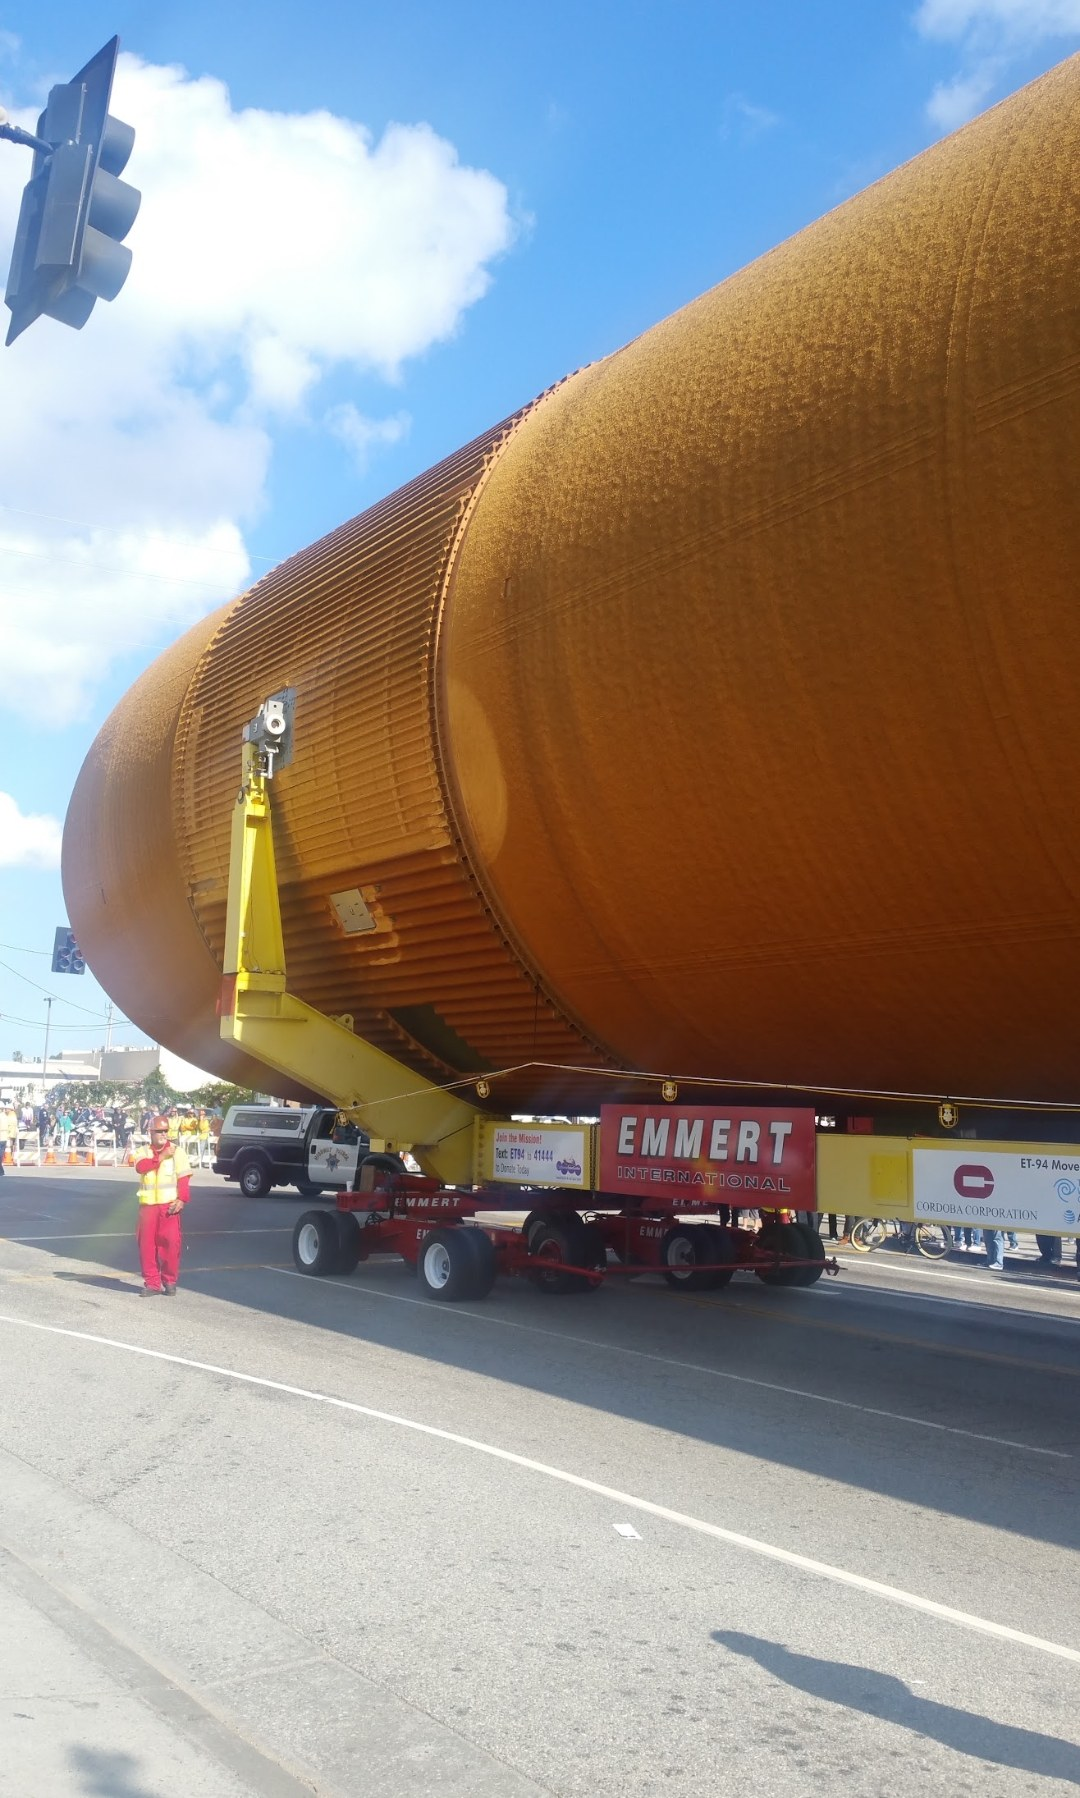
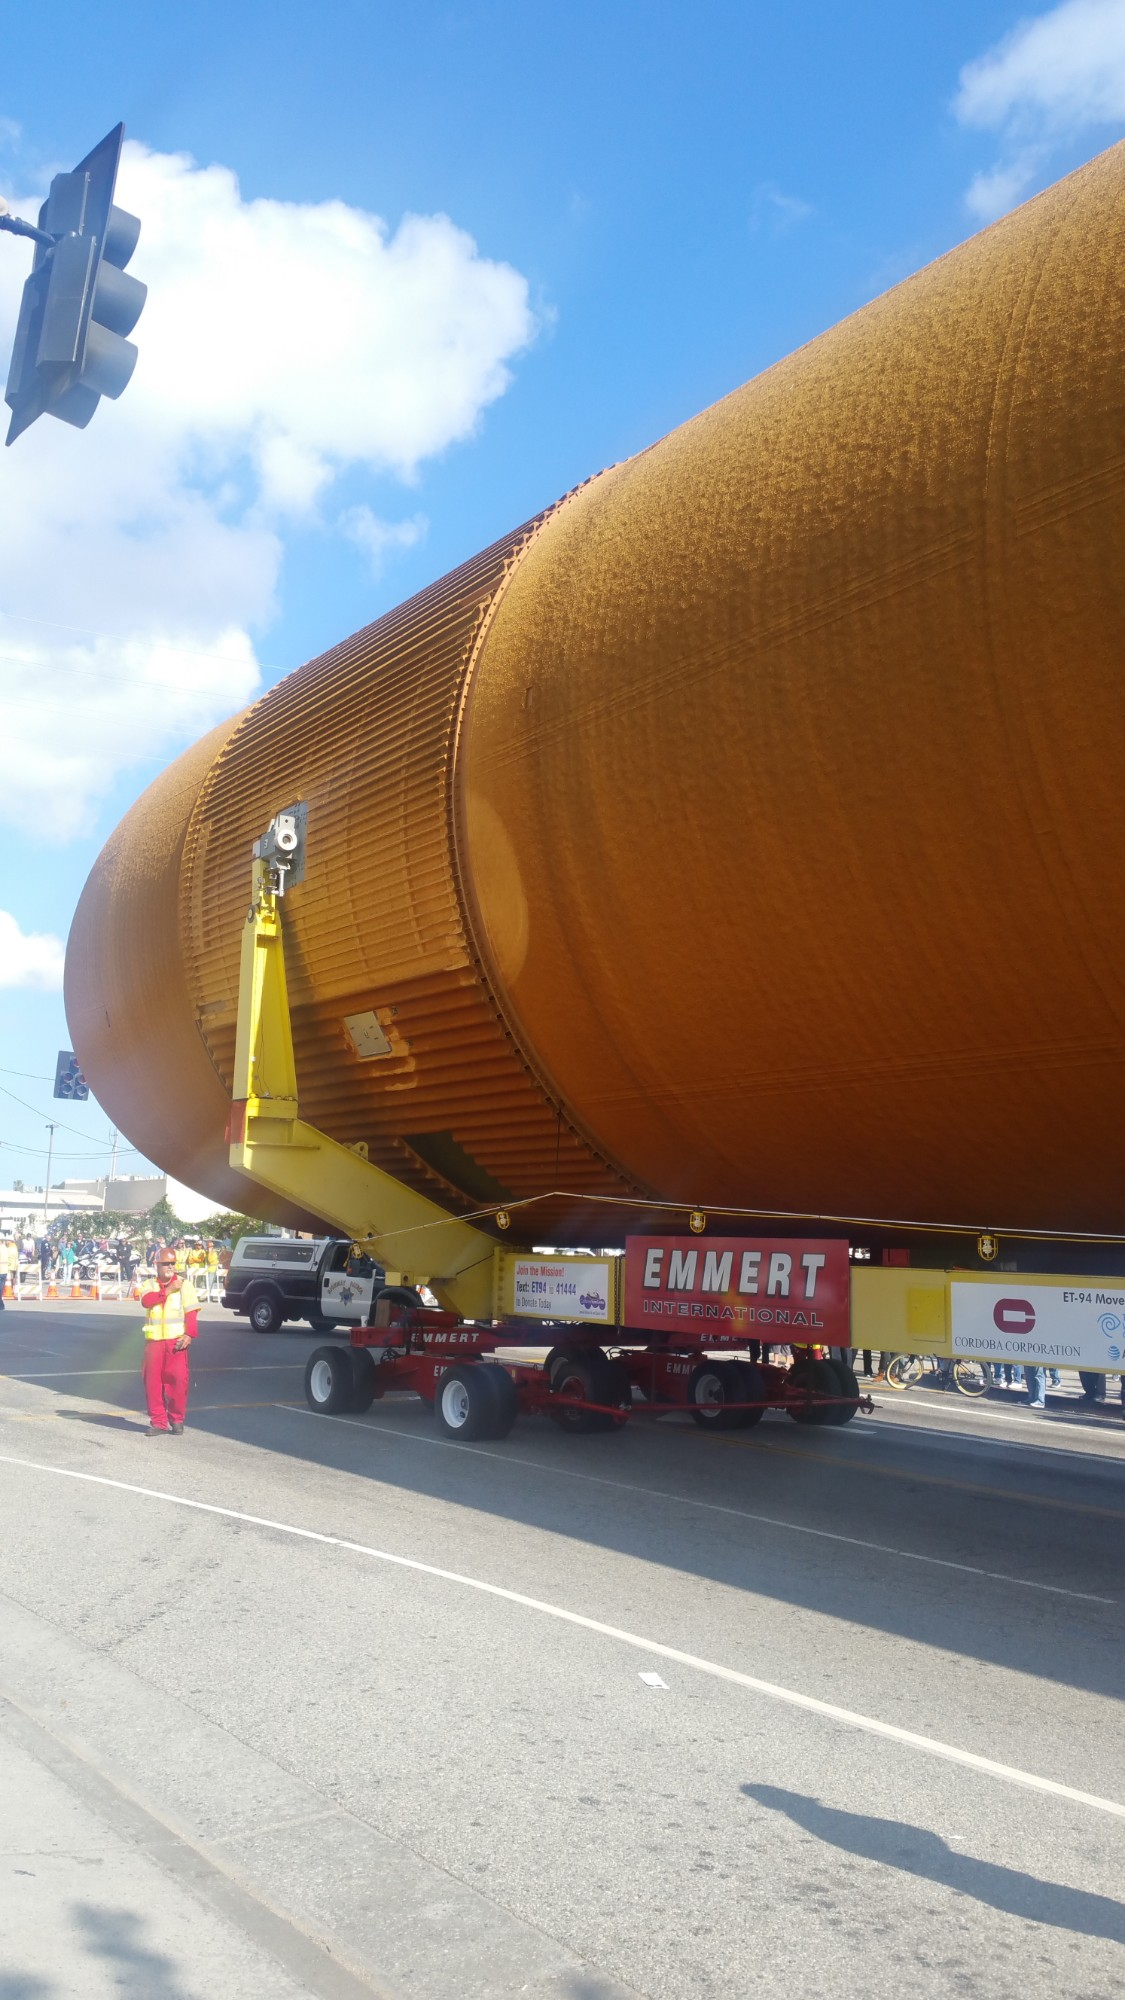
Use original photos in the ET-94 post and place the 2012 flyover
Replaces two stand-in screenshots with the originals, adds the wide
crowd shot on Arbor Vitae, and says the flyover was watched from in
front of Splunk's Embarcadero office.

Claude-Session: https://claude.ai/code/session_013bVqEFcB8vhbBxohmkv3Jr

diff --git a/content/posts/last-space-shuttle-tank-drove-across-los-angeles/index.md b/content/posts/last-space-shuttle-tank-drove-across-los-angeles/index.md
@@ -14,8 +14,10 @@ tags = [
 ]
 hideAsideBar = true
 homeFeatureIcon = "fa-solid fa-camera"
-# PREVIEW: the JPGs here are cropped phone screenshots standing in for the
-# originals. Replace them (same names) before merging, then rerun
+# PREVIEW: four tank photos are still cropped phone screenshots standing in
+# for originals: et94-signal-arm-crane, et94-nose-on-aviation,
+# et94-foam-close-up and et94-down-arbor-vitae. Replace them (same names)
+# before merging, then rerun
 #   npm run og:generate -- --only /posts/last-space-shuttle-tank-drove-across-los-angeles/
 og_image = "et94-signal-arm-crane.jpg"
 cardType = "-image"
@@ -30,8 +32,7 @@ cardImageAlt = "A crane truck lifts a traffic signal arm off its pole so the spa
 <!--
 DRAFT NOTES — delete this block before publishing.
 - Every [BEN: …] marker needs your memory or a fact only you have.
-- Photos: the six image lines below are named and have alt text. Drop the
-  ORIGINAL JPGs (not phone screenshots) into this folder under those names.
+- Photos: four tank photos are still screenshots (see the front matter).
 - Facts marked "verify" came from 2016 news coverage; numbers vary a little
   between sources (16 vs 16.5 miles, 65,000–69,000 lb, 18 vs 19 hours).
 -->
@@ -48,7 +49,7 @@ It wasn't the first piece of it I'd seen.
 
 On Friday, September 21, 2012, Endeavour made its last flight, riding on the back of NASA's 747 from Edwards Air Force Base on a farewell loop of California: over Sacramento, over San Francisco and the Golden Gate Bridge, down the Peninsula, and on to Los Angeles, where it landed at LAX.
 
-I was living in San Francisco then and working at Splunk, a few blocks from the water. When word went around that it was coming, people streamed out of the offices to watch. I ended up on the Embarcadero by South Beach Harbor, in a crowd of office workers in dress shirts holding up their phones. My phone was not up to it: the shuttle is a white speck between the towers of the Bay Bridge. But everyone in this picture is looking at it.
+I was living in San Francisco then and working at Splunk, whose office was right on the Embarcadero by South Beach Harbor. When word went around that it was coming, people streamed out of the buildings along the waterfront, and I went down in front of the office with everyone else: a crowd of office workers in dress shirts, all holding up their phones. My phone was not up to it: the shuttle is a white speck between the towers of the Bay Bridge. But everyone in this picture is looking at it.
 
 ![A crowd on the Embarcadero waterfront in San Francisco looks and points phones toward the Bay Bridge as the 747 carrying Space Shuttle Endeavour flies past, September 21, 2012](endeavour-flyover-embarcadero.jpg)
 
@@ -115,6 +116,8 @@ Even with the signal arms gone, it cleared the remaining signal heads by what lo
 ![The ribbed middle section of the tank passes just under a traffic signal on its yellow-and-red Emmert transporter](et94-signal-clearance.jpg)
 
 By 8:50 it was through, rolling east on Arbor Vitae behind a Highway Patrol truck, and the crane trucks were already moving on. As it went, people on the curb high-fived the crew and handed out bottles of water, and for a few minutes the corner felt like a block party.
+
+![Spectators on the corner of Arbor Vitae Street watch and photograph the orange tank passing on its Emmert transporter, hung with sponsor banners and a California Science Center sign](et94-crowd-arbor-vitae.jpg)
 
 ![The tank heads down Arbor Vitae Street behind a California Highway Patrol truck, with spectators on the corner](et94-down-arbor-vitae.jpg)
 
